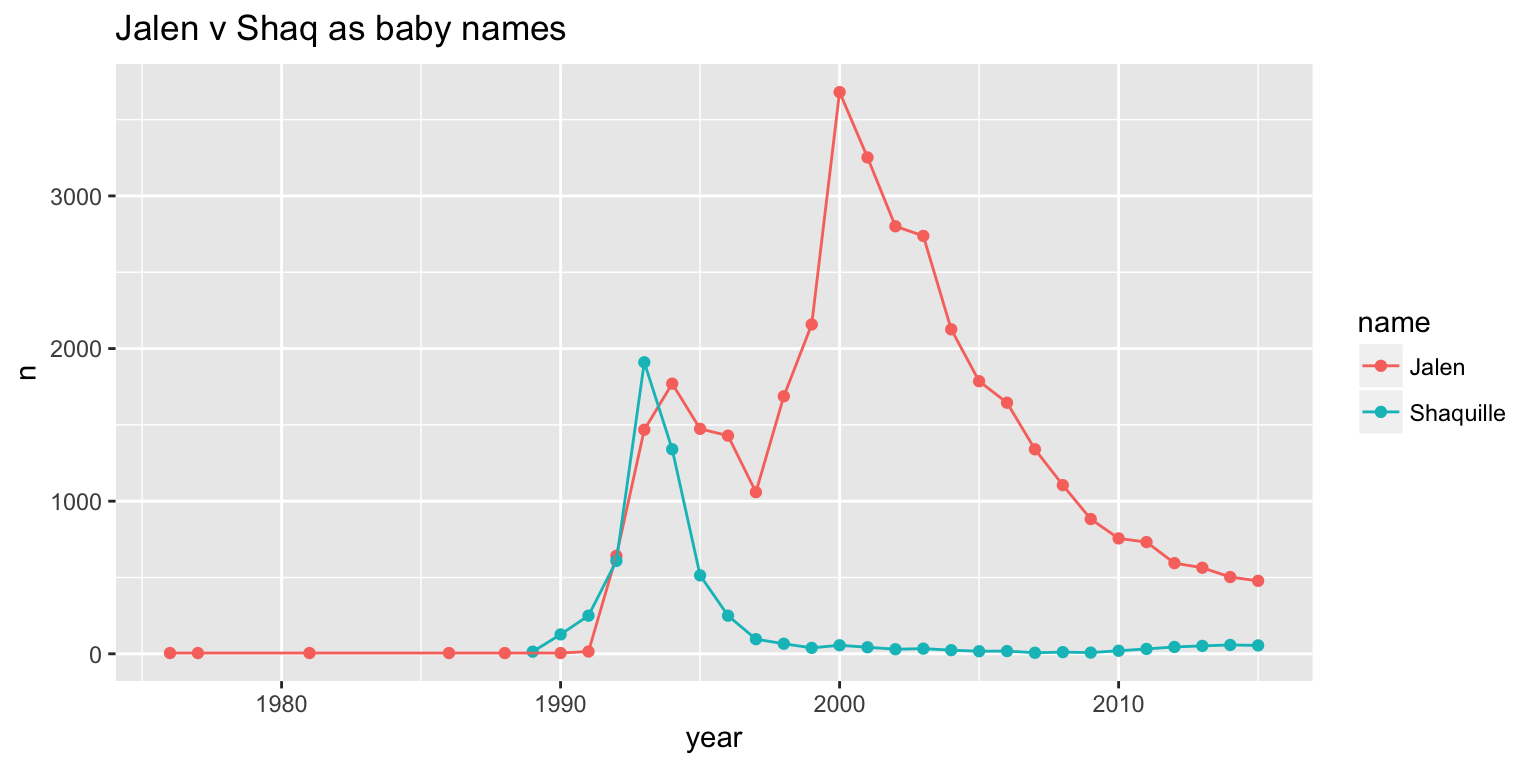
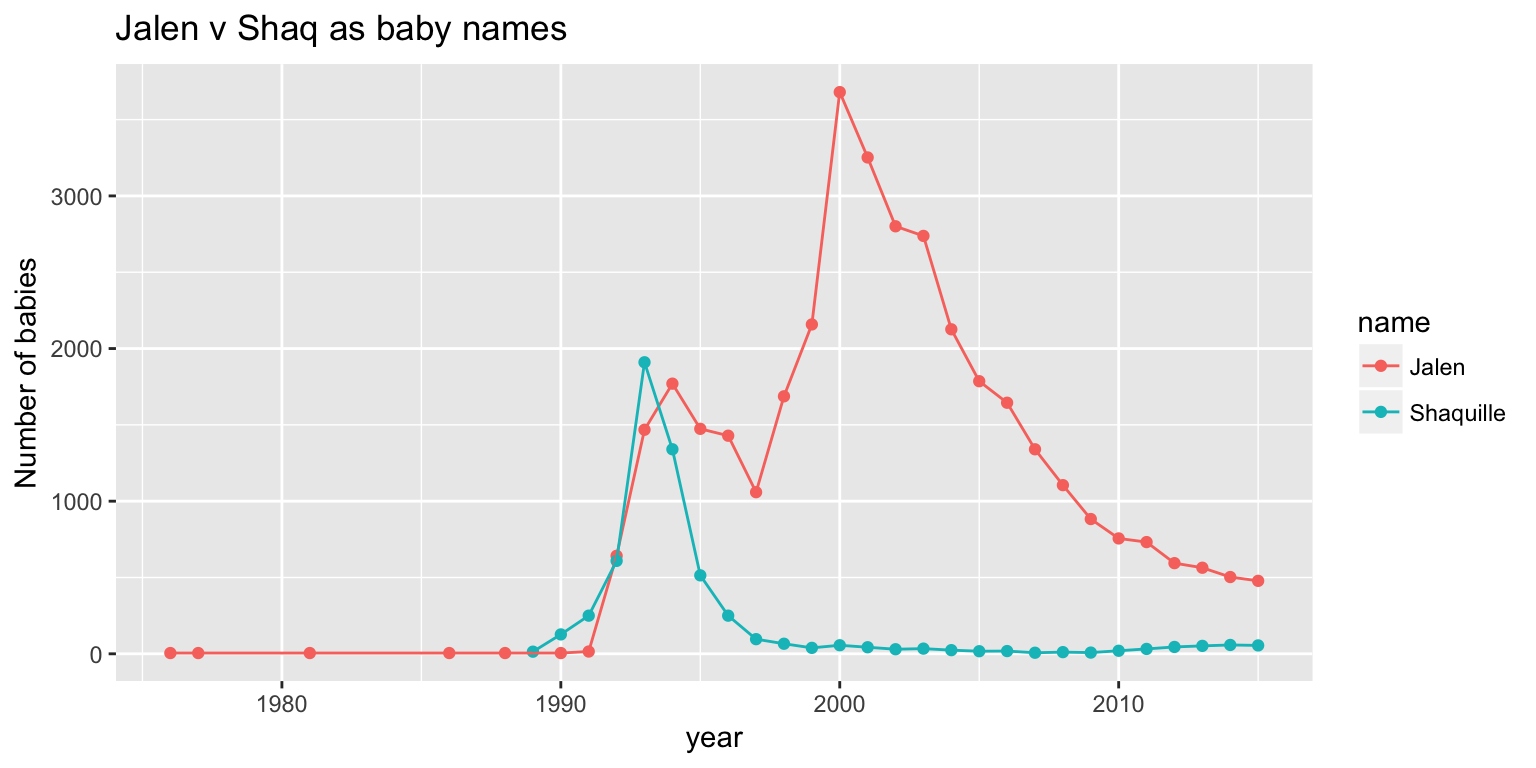
Fix plot.

diff --git a/content/post/2018-01-27-jalen-v-shaq.html b/content/post/2018-01-27-jalen-v-shaq.html
@@ -6,6 +6,7 @@ slug: jalen-v-shaq
 categories: ["r"]
 tags: ["r", "nba", "babynames"]
 description: 'Was Jalen Rose really the first Jalen?'
+image: "https://jesse.tw/images/circle-arrows.png"
 ---
 
 
@@ -39,7 +40,7 @@ babynames %&gt;%
   group_by(name, year) %&gt;% summarize(n = sum(n)) %&gt;% 
     ggplot(aes(x = year, y = n, group = name, colour = name)) + 
     geom_point() + geom_line() +
-    labs(title = &quot;Jalen v Shaq as baby names&quot;, xlab = &quot;year&quot;, ylab = &quot;Number of babies&quot;) + 
+    labs(title = &quot;Jalen v Shaq as baby names&quot;, x = &quot;year&quot;, y = &quot;Number of babies&quot;) + 
     guides(fill=guide_legend(title=&quot;Name&quot;))</code></pre>
 <p><img src="/post/2018-01-27-jalen-v-shaq_files/figure-html/unnamed-chunk-2-1.png" width="768" /></p>
 <p>Daaaaaaaang Jalen 💯. #gtpwtw since 1991. Around 1992-3 Shaq looks just as popular, then ppl realize it’s crazy to call your baby Shaquille, he’s too famous! E.g., the only person who can name a baby Lebron is Lebron. (Err, wait! There were 6 Lebrons born in 1925?!)</p>
